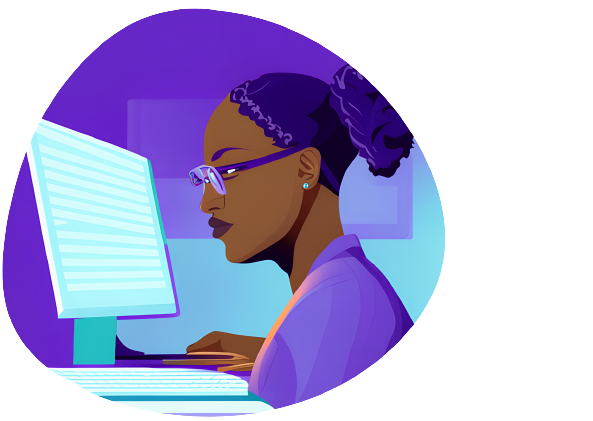
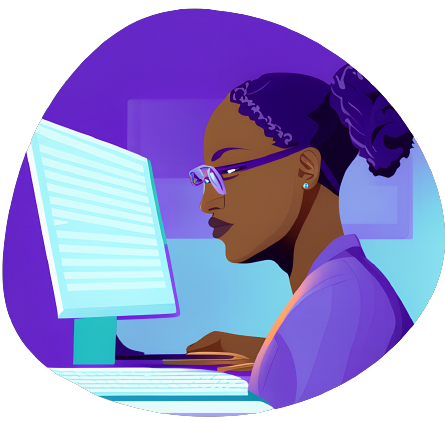
LD DOCS changing the image and the alignment and the size

diff --git a/README.md b/README.md
@@ -1,7 +1,7 @@
 <h1 align="center">Hi 👋, I'm Lisa Daudibon !</h1>
 <h3 align="center">A new webdeveloper fullstack from Brittany, in France ! I'm looking for a internship with Rails/ruby or React ! Thank you for visiting my profile  </h3>
 
-<img src="/Lisa_coding.png">
+<img align=right src="/Lisa_coding.png" width=500px>
 
 - 🌱 I’m currently learning **React and Typescript**
 
